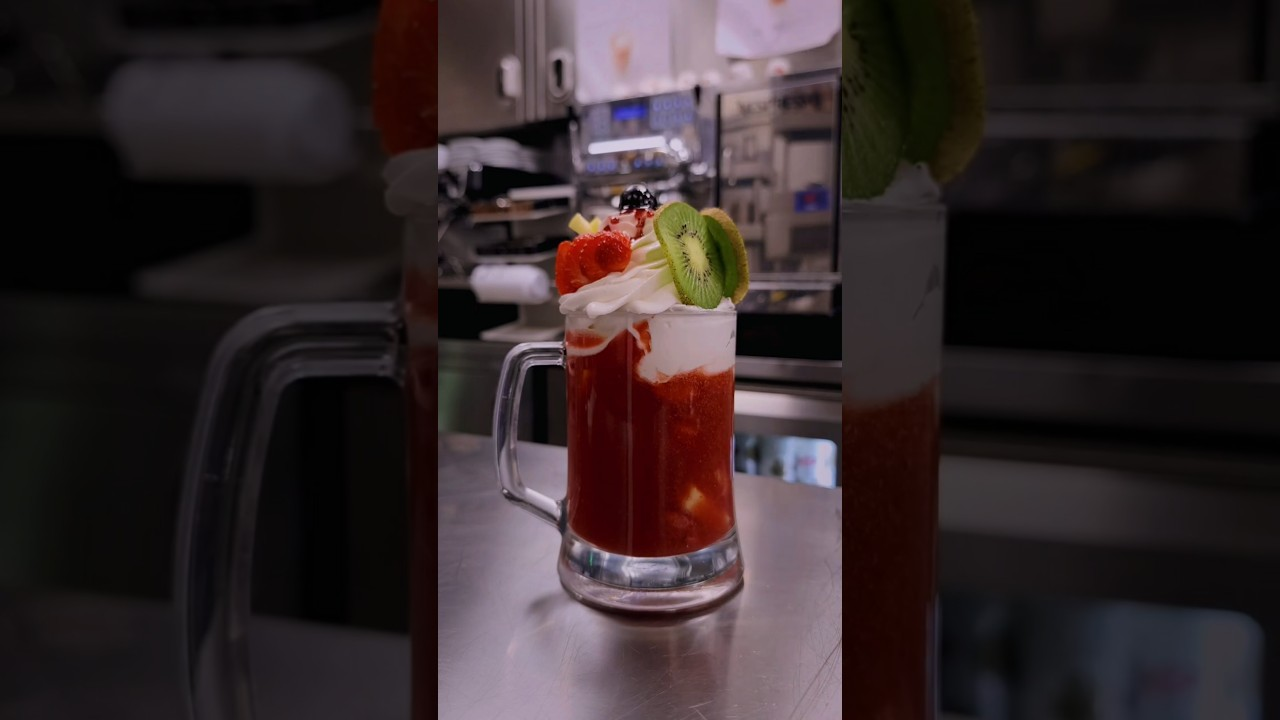
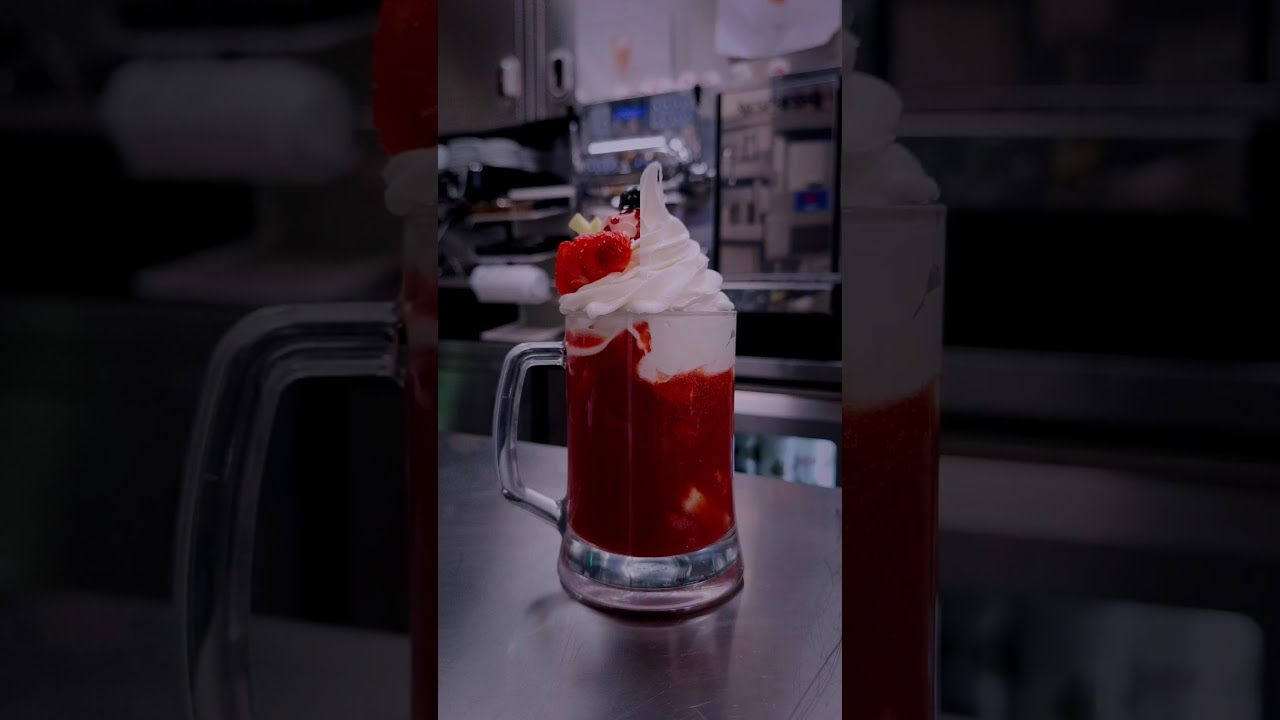
تحديث الفيديو الرابع بالرابط ومعرّف الفيديو الجديد
- استبدال معرّف ورابط الفيديو الرابع في src/data.ts إلى: https://youtube.com/shorts/Dym5iekDNuQ?si=iXT5lddFviP_fdOT
- تحديث صورة غلاف الفيديو الرابع video4.jpg بأعلى دقة متوفرة من يوتيوب
- التأكد من ربط التضمين المباشر وزر المشاهدة الخارجية بالمعرّف والرابط الجديدين

Changed region(s): [[0.3438, 0.0, 0.7812, 1.0]]

diff --git a/src/data.ts b/src/data.ts
@@ -37,8 +37,8 @@ export const YOUTUBE_THIRD_ID = "yFcjGUHXOMo";
 export const YOUTUBE_THIRD_URL = "https://www.youtube.com/shorts/yFcjGUHXOMo";
 export const YOUTUBE_THIRD_POSTER = "/images/videos/video3.jpg";
 
-export const YOUTUBE_FOURTH_ID = "l4Z3d8CRPgQ";
-export const YOUTUBE_FOURTH_URL = "https://youtube.com/shorts/l4Z3d8CRPgQ?si=LQIniYo12p2V9Dl9";
+export const YOUTUBE_FOURTH_ID = "Dym5iekDNuQ";
+export const YOUTUBE_FOURTH_URL = "https://youtube.com/shorts/Dym5iekDNuQ?si=iXT5lddFviP_fdOT";
 export const YOUTUBE_FOURTH_POSTER = "/images/videos/video4.jpg";
 
 /* كولاج صور الأول (3 تصاميم مشروبات وسموذي منعشة) */
